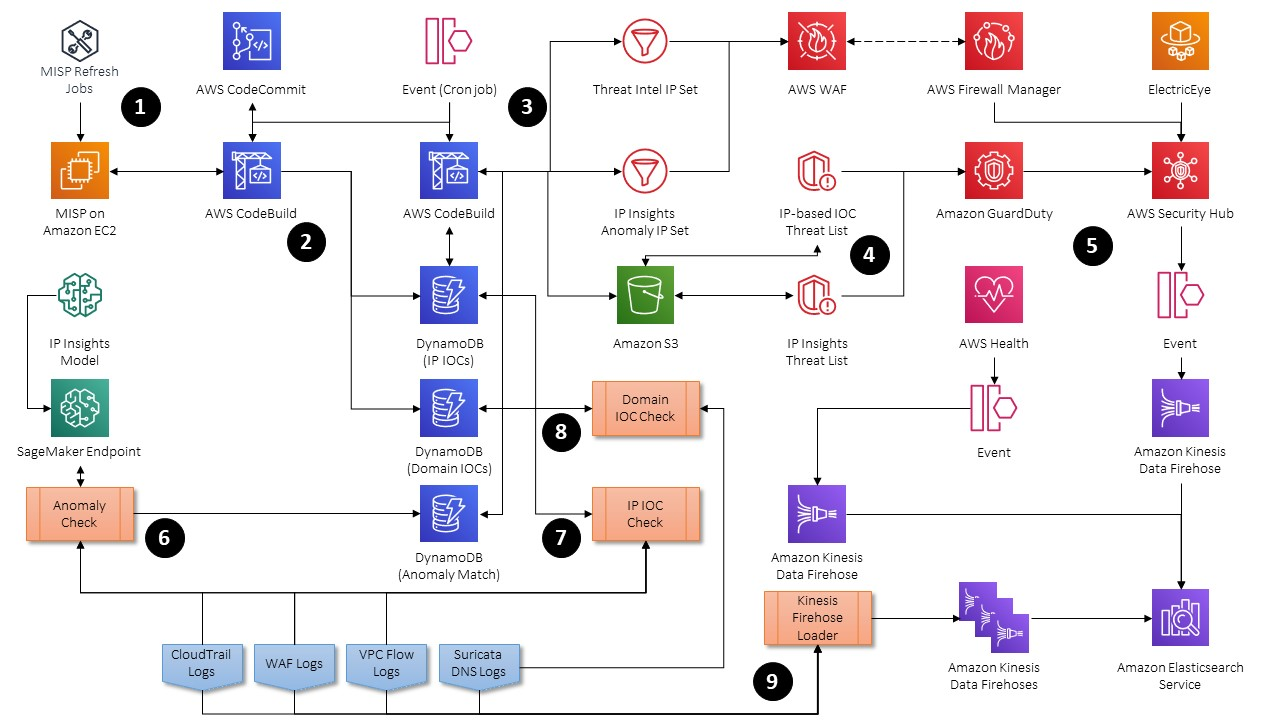
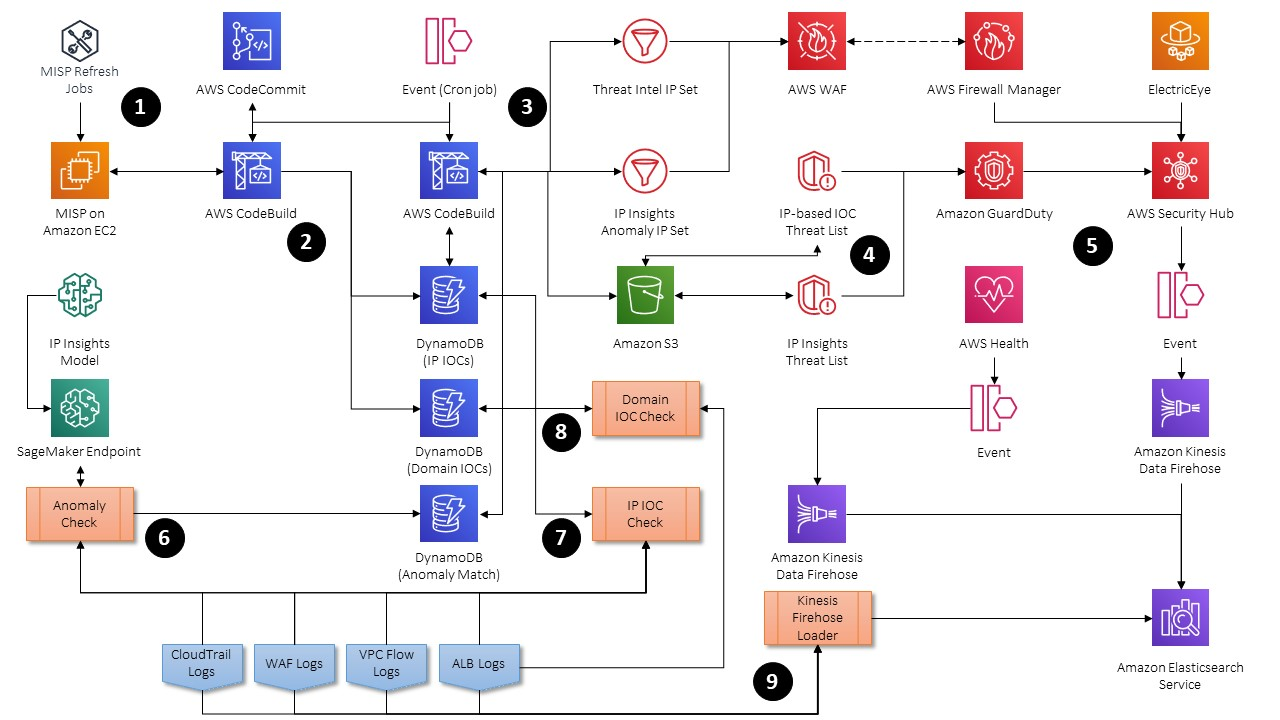
Updated diagrams to reflect ALB addition. Updated Solution Architecture. Added FAQ.

Changed region(s): [[0.75, 0.7944, 0.8125, 0.9778], [0.3438, 0.8861, 0.4062, 0.9472]]

diff --git a/README.md b/README.md
@@ -1,5 +1,5 @@
 # SyntheticSun
-SyntheticSun is a Proof of Concept (POC) defense-in-depth security automation framework which utilizes threat intelligence, machine learning, data engineering, managed AWS security services and serverless technologies to continuously adapt to, detect and neutralize new and existing threats at the edge.
+SyntheticSun is a proof of concept (POC) defense-in-depth security automation and monitoring framework which utilizes threat intelligence, machine learning, and serverless technologies to continuously prevent, detect and respond to new and emerging threats.
 
 *"You sleep in fragmented glass"*</br>
 *With reflections of you,"*</br>
@@ -29,7 +29,7 @@ The first diagram outlines the processing taken on the following security teleme
 
 #### CloudTrail
 1.	CloudTrail logs are published to an S3 bucket where a S3 Event will invoke a Lambda function
-2.	Lambda will gunzip and parse out IP information from CloudTrail, if the action was taken from an IP address, Lambda will attempt to enrich the log with geolocation details
+2.	Lambda will download, gunzip and parse out IP information from CloudTrail, if the action was taken from an IP address, Lambda will attempt to enrich the log with geolocation details
 3.	Lambda prepares for additional conditional processing as shown in the next diagram
 #### VPC Flow Logs
 1.	Flow Logs are published to a CloudWatch Logs Group where a subscription will send them to Lambda to be converted from a space-separated log format to JSON
@@ -37,19 +37,22 @@ The first diagram outlines the processing taken on the following security teleme
 3.	Lambda will attempt to add geolocation data based on the source and destination. RFC1918 space will be marked as “Unidentified” as it is likely the private IP space for your resources on the AWS cloud
 4.	Lambda will use the Python 3 Socket module to attempt to perform a reverse DNS lookup of the source or destination IP addresses. RFC1918 space will be marked as “Unidentified” as it is likely the private IP space for your resources on the AWS cloud
 5.	Lambda prepares for additional conditional processing as shown in the next diagram
-#### Non-DNS Suricata EVE Logs (Alerts, Anomalies and TLS Traffic will be sent)
-1.	Suricata is configured to publish Alerts (based on rules), Anomalies and Extended TLS based traffic to a separate EVE JSON log output
-2.	Kinesis Data Agent is configured to process this file and publish it to a Kinesis Data Firehose delivery stream
-3.	The delivery stream publishes all Non-DNS Suricata EVE Logs to Elasticsearch without further processing
-#### DNS Suricata EVE Logs
-1.	Suricata is configured to published Extended DNS logs to a separate EVE JSON log output. No other log formats are published (e.g. DHCP, TCP, HTTP)
-2.	Kinesis Data Agent is configured to process this file and publish it to a Kinesis Data Stream that has a subscription to a Lambda function
-3.	Lambda will use the Python 3 Socket module to attempt to lookup the IP address from any DNS host name or domain
-4.	Lambda prepares for additional conditional processing as shown in the next diagram
+#### ALB Access Logs
+1.	ALB Access logs are published to an S3 bucket where a S3 Event will invoke a Lambda function
+2.	Lambda will download, gunzip and parse the log files and use regex and other methods to extract out connection and HTTP information from the log files
+3.  Lambda will attempt to add geolocation data for the client IP
+4.  Lambda will use the Python 3 Socket module to attempt to perform a reverse DNS lookup of the client IP
+5.	Lambda prepares for additional conditional processing as shown in the next diagram
 #### WAF Request Logs
 1.	WAF Logs are published to Kinesis Data Firehose which are then sent to a bucket per Web ACL
-2.	An S3 Event will invoke a Lambda function to download and performs extremely basic data format normalization of the WAF logs. WAF publishes logs in JSON and already includes DNS, Geolocation and HTTP request header information in the logs
-3.	Lambda prepares for additional conditional processing as shown in the next diagram
+2.	An S3 Event will invoke a Lambda function to download and perform restructuring of the WAF log
+3.  Lambda will attempt to add geolocation data for the client IP
+4.  Lambda will use the Python 3 Socket module to attempt to perform a reverse DNS lookup of the client IP
+5.	Lambda prepares for additional conditional processing as shown in the next diagram
+#### Suricta (HIDS/HIPS/NSM)
+1.	Suricata publishes logs to the EVE.json file, a modified configuration file is used to reduce the relative noisyness of these logs.
+2.	A CloudWatch Agent is configured to process this file and publish it to a CloudWatch Logs Group, each stream corresponds to an EC2 instance ID
+3.	Lambda parses the logs from the CloudWatch Log streams and inserts them into ElasticSearch Service
 
 The second diagram details automation and specialized enrichment activities before delivery to Elasticsearch Service
 ![SyntheticSun Automation Architecture](https://github.com/jonrau1/SyntheticSun/blob/master/img/syntheticsun-automation-diagram.jpg)
@@ -60,15 +63,64 @@ The second diagram details automation and specialized enrichment activities befo
 4.	CodeBuild will use the UpdateThreatList API to instruct GuardDuty to use the latest text files that are generated
 5.	AWS Security Hub and AWS Health (for Abuse findings) publish events to EventBridge which uses rules to match these events and publish them to Kinesis Data Firehose which in turn ships them to Elasticsearch Service
 6.	All “ALLOWED” WAF requests and non-AWS service CloudTrail IP addresses are ran against the IP Insights Endpoint to detect anomalous activity. The WAF tuple is based on IP address and user-agent while the CloudTrail tuple is based on IP address and IAM principal name
-7.	WAF, CloudTrail and VPC Flow Log IP addresses are ran against the IP-based IOC DynamoDB table to check for any matches
-8.	The Suricata DNS feed is ran against the Domain-based IOC DynamoDB table to check for any matches
-9.	A final JSON log format is generated by the respective data sources with results of the threat intelligence and Sagemaker enrichment and written into matching Firehose delivery streams which are delivered to Elasticsearch service
+7.	ALB, WAF, CloudTrail and VPC Flow Log IP addresses are ran against the IP-based IOC DynamoDB table to check for any matches
+8.	WAF and ALB feeds are ran against the Domain-based IOC DynamoDB table to check for any matches from the hostnames
+9.	A final JSON log format is generated by the respective data sources with results of the threat intelligence and Sagemaker enrichment and written into Elasticsearch Service by the respective Lambda function handling the feed
 
 ## Setting Up
 Coming Soon.
 
 ## FAQ
-Coming Soon.
+#### 1. Why should I use this solution?
+SyntheticSun is an easy way to start using cyber threat intelligence and machine learning for your edge protection security use cases on the AWS Cloud without having to invest in one or more commercial tools or a data scientist for your security team. This solution, after initial configuration, is fully automated allowing you to identify and respond to threats at machine speed. Finally, this solution provides basic visualizations for your incident response team to use for threat response, such as allowed inbound or outbound connections or DNS queries to / from IP addresses or domains deemed to be malicious. The core of the solution relies on very lightweight automation and data engineering pipelines, which theoretically, can be reused for other purposes where multi-stage normalization and enrichment or scheduled fast-paced batch jobs are needed.
+
+#### 2. Who should use this solution?
+Firstly, if you are making use or GuardDuty and/or AWS WAF it may make sense to evaluate this solution, but it is also a requirement. Obvious personas who can take advantage are product teams responsible for securing their full stack and lack the capital or expertise to model, train and deploy machine learning algorithms or operationalize cyber threat intelligence feeds in a meaningful way. Those aforementioned personas are likely security engineering, SecOps / SOC analysts & engineers or a DevSecOps engineer, but that list is not exhaustive, and they do not need to be product / application-aligned as central teams can use this as well. Another usage is those same personas (SecOps, security engineering) that work for a centralized team and want to create a dynamic block list for firewalls and intrusion prevention systems, the CodeBuild projects can be repurposed to drop CSV or flat files to almost any location (e.g. Palo Alto firewalls, Squid forward proxy URL filters, etc.)
+
+#### 3. What are the non-negotiable dependencies for this solution?
+You should be currently using AWS ELB (ALB) and logging to S3, AWS WAF and logging requests with Kinesis Data Firehose, CloudTrail and publishing the latest version (with all fields) of VPC Flow Logs to CloudWatch Logs. Additionally, you should also have GuardDuty and Security Hub enabled. If your account is a part of an Organization this solution should be deployed ***at a minimum*** where your GuardDuty Master is located as the Threat Lists cannot be updated by the members. Ideally, your Organizational Health API, Organizational CloudTrail, AWS Firewall Manager Administrator Account and Security Hub Master will be in the same place to make collection of security telemetry from those sources easier.
+
+#### 4. Outside of the Masters for the AWS Security Services, what considerations are there for an Organizational deployment?
+The easiest way to deploy this solution for an organization is to deploy it as suggested in FAQ #3 where all of your centralized security and management services are located. For the lower-level telemetry such as VPC Flow Logs and WAF Logs, you should split those elements out of the main CloudFormation template into their own and share them across your organization in AWS Service Catalog or in another centralized area. You will need to evaluate your shard consumption and index rotation of Elasticsearch Service, as well as the permissions, if you will be having cross-account Kinesis Data Firehose delivery streams publishing into a centralized location.
+
+I built this solution in my personal sandbox account, hence why I did not bake any of the considerations from above into the solution, I will be happy to work on a PR with this in mind and may do it myself in the future.
+
+#### 5. What is the IP Insights algorithm? Is your usage really what it was intended for?
+**CAVEATS**: I am not a data scientist and this is going to be a long answer. Tl;dr: It's an anomaly finder and I think?
+
+Given that I am not remotely close to a data scientist or have any training you are better served [reading the docs](https://docs.aws.amazon.com/sagemaker/latest/dg/ip-insights-howitworks.html) on this. That said, here is my layman's attempt at it, IP Insights is an unsupervised machine learning algorithm that learns the relationship between an IPv4 address and an entity (e.g. Account number, user name, user-agent) and tried to determine how likely it is that the entity would use that IPv4 address. Behind the curtains of IP Insights is a neural network that learns the latent vector representation of these entities and IPv4 addresses and the distance betweens these vectorized representation is emblematic for how anomalous (or not) it is for an entity to be associated with (e.g send a request from) an IPv4 address.
+
+Neural networks are almost exactly like they sound, its a machine learning system that is supposed to behave similar to the human brain complete with computerized neurons and synapses. In unsupervised machine learning the algorithm can suss out what "good" (i.e. True Negative) looks like versus "bad" (i.e. True Positive) by looking at the association between all IPv4 Address and their paired entities and identify what vectors are similar to the others by their "distance". In IP Insights case, a prebuilt encoder is provided that looks for IPv4 addresses and then hashes out all entities into clusters and iterates over them using vectorization which is a way to perform computations as a matrix instead of looping over them (think of a "For" loop for a list containing tens of millions of values).
+
+When you are training an IP Insights model it will actually create itself false positives by pairing IPv4 addresses with entities that have a far distance (i.e. highly anomalous) and are less likely to actually occur in reality, the model can now discriminate between True Positives, False Positives and True Negatives. This is done to prevent another crazy ass term called "cross entropy" (AKA "log loss" as if that makes it better), and introduces another term, binary classification. IP Insights is essentially asking "what is the chance that this IP address paired with this entity is anomalous" which is what makes it binary, I think, so "yes it's bad" or "not it is not". The probability is represented as a value between 0 and 1, the goal of all machine learning models is to make this as close to 0 as possible, so predicting a value of 0.01 for something that is really 1 (known True Positive) would result in very high log loss. So, with all that said, by making purposely garbage data IP Insights helps to reduce that log loss (i.e. bad predictions) during training.
+
+That brings us to the output from the endpoint. When you query it (either via batches or in near real-time using the `InvokeEndpoint` API) the response is an unbounded float that can be negative or positive and (from my tests) could have as much as 12 decimal points. The higher above 0 it is the more likely it is anomalous which is where your work begins. For this solution I chose anything above 0.03, which is largely notional, to get closer to the truth you should provide True Positives to the endpoint and see what your response is. Based on those findings, you could configure a tiered approach where you application may issue a 2nd factor challenge, raise an alert or block it outright depending on the score. The answer to the second part of the question is "Yes, I think so", training the model with user-agents paired with an IP is actually pretty sketchy. Now for other less volatile entities it feels like the intended usage.
+
+#### 6. Are there any other considerations for training and using IP Insights?
+Like anything else, a machine learning algorithm is a tool, and it should be used properly. The first thing you should do is train a model per use case and don't use it like I am in this solution (for WAF requests and for CloudTrail logs), you will likely get inaccurate results which either results in False Positives, or False Negatives which are much worse. The AWS provided notebook for this solution generates nearly 4 million records to train the model so I would use that as a benchmark for how much data you will need. Likely your web applications (and your CloudTrail) is generating over that in the matter of hours depending on your scale. Since WAF and CloudTrail are both in JSON format it is very simple to grab your IP address and entity pair and write them to a CSV. If you do decide to use user-agent, either remove (using Python's `replace()`) or escape special characters and periods, when I gave user-agent and IP pairs to the endpoint it would choke on periods since the encoder (probably) uses a regex the detect the IPv4 addresses.
+
+#### 7. What threat intelligence feeds should I use? What happens if there are duplicates?
+In the solution I provide some example feeds that you should use, some are pretty obvious like the cybercrime domain feed, Emerging Threats and CI-badguys. In my real job I work with one of the most talented cyber threat intelligence specialists in the entire world, no joke she is awesome, so she also had some secondary influence on the choices. Just like machine learning models and anything else you will build, you should try to tailor your threat intel feeds and aggregation to match what your current threat environment is. I cannot tell you which is the best suited so I give popular ones, but ideally you should try to rely on sources and do your own analysis and correlation based on threats facing your organizations, whether those threats manifest in targeted malware campaigns in your vertical or you know certain state-sponsored groups want to target you.
+
+As far as duplicates MISP will call that out within the console, to combat that I only specify a hash key in the DynamoDB tables to enforce uniqueness, so even if there are 5 feeds reporting on the same IPv4 address only one will make it to the table. 
+
+#### 8. I did a look up against the raw log sources in S3 and I am not seeing the entries in Elasticsearch, why is this?
+Most log delivery from AWS is "best effort" there is not an official SLA published but I would assume it is around 99.5 - 99.9% where anything in that last 0.5 - 0.1% will not be delivered. "Production" traffic is also first class in AWS, if there are network bandwidth constraints it will default to delivering connectivity back to clients versus sending out logs. The more likely event is that the raw log file was too large for Lambda to process the entire thing in time, you see this a lot when you are being hosed by a DOS or crawler from the same client IP, WAF and ALB bundle log files by the caller from what I can tell and if you absorb 100s of requests the log file can be very large.
+
+#### 9. I have an existing Elasticsearch Service domain in a VPC, will this solution work?
+You will either need to place the Lambda functions into a VPC and attach VPC Endpoints for S3, DynamoDB, and CloudWatch Logs or modify the solution to publish the final formatted logs into Kinesis Data Firehose and point them to you ES Domain in a VPC. There are additional costs for this and Lambda in a VPC, especially for dozens of concurrent invocations, will likely lead to more problems. Unless you absolutely have to isolate all traffic within your VPC to meet compliance requirements I would not go down that road.
+
+#### 10. Can I publish these log sources to Splunk instead?
+You can if you modify the solution to publish the final formatted logs into Kinesis Data Firehose and point them to Splunk. I was going to do that, but, Firehose is an expensive addition (especially if in a VPC) so it was easier to just use the Requests-AWS4Auth library to publish directly into a non-VPC ES domain.
+
+#### 11. Will you support any other logging sources 
+I hope to have support for Route 53 DNS Logs, S3 Access Logs, CloudFront Access Logs and API Gateway Access Logs and maybe some other host-based logs in the future.
+
+#### 12. Why did you use the CloudWatch Agent instead of the Kinesis Data Agent?
+I would have preferred to use to Kinesis Data Agent honestly but I found a lot of issues with it, it is not included by default in Amazon Linux 2 and now that Ubuntu 18.04LTS AMI's come with Java 11 pre-installed I was running into backwards compatability issues with the Agent as it fails the build unless you have OpenJDK 8 or 9. It was much easier to install the CloudWatch Agent as it is frequently updated with new features and there is Systems Manager Document support for configuration and it even has a wizard for installation. If AWS ever takes the Kinesis Data Agent support as serious as CloudWatch Agent I may switch to it as I'd much rather publish to Kinesis Data Firehose directly for certain host-based logs (Suricata, Squid, Nginx, Apache) versus using CloudWatch Logs as an intermediary.
+
+#### 13. My DynamoDB table for IPv4-based IOCs from MISP has tens of thousands of entries but my WAF IP Set has just a little under 10,000! What gives?!
+WAF IP Sets only accepted 10,000 addresses as a hard limit per IP Set, super annoying but there is nothing I can do about that. I used some hacky Python magic to take the last 10,000 values from the list I generate by parsing through the text files I write out from the DynamoDB tables, it is the only way to ensure that your IP set will get updated.
 
 ## Contributing
 I am happy to accept PR's for items tagged as "Help Wanted" in Issues or the Project Board. I will review any other proposed PRs as well if it meets the spirit of the project.
